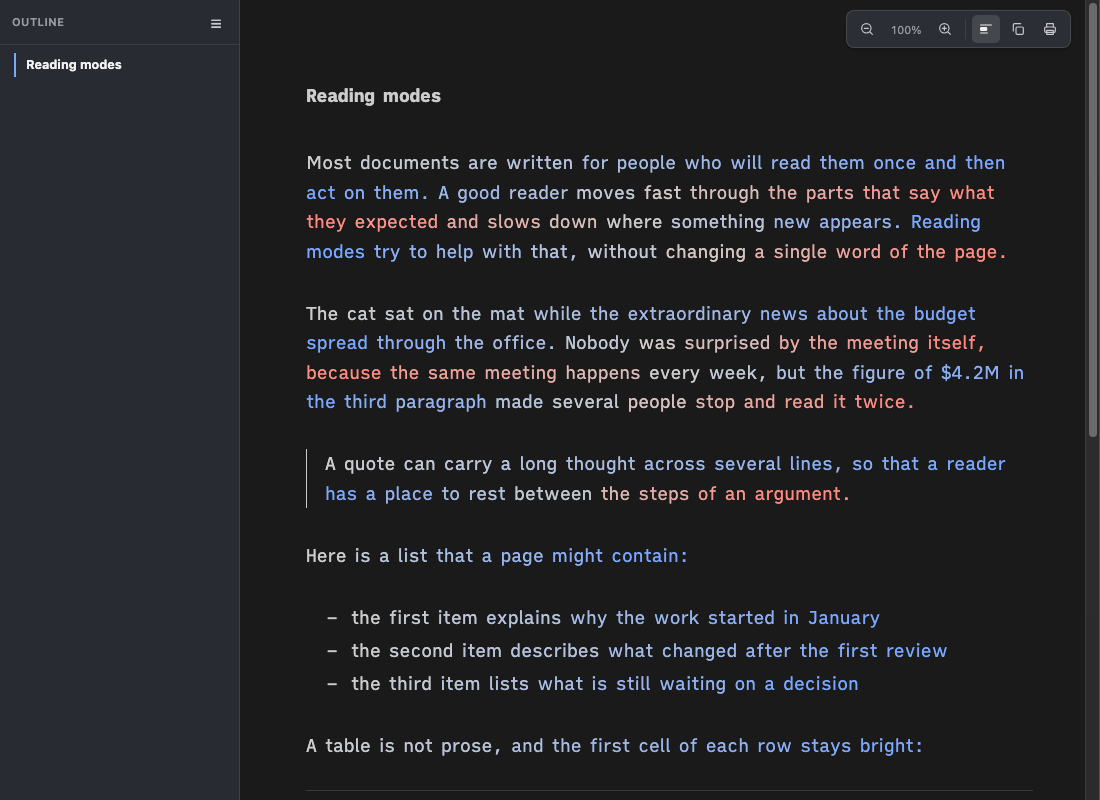
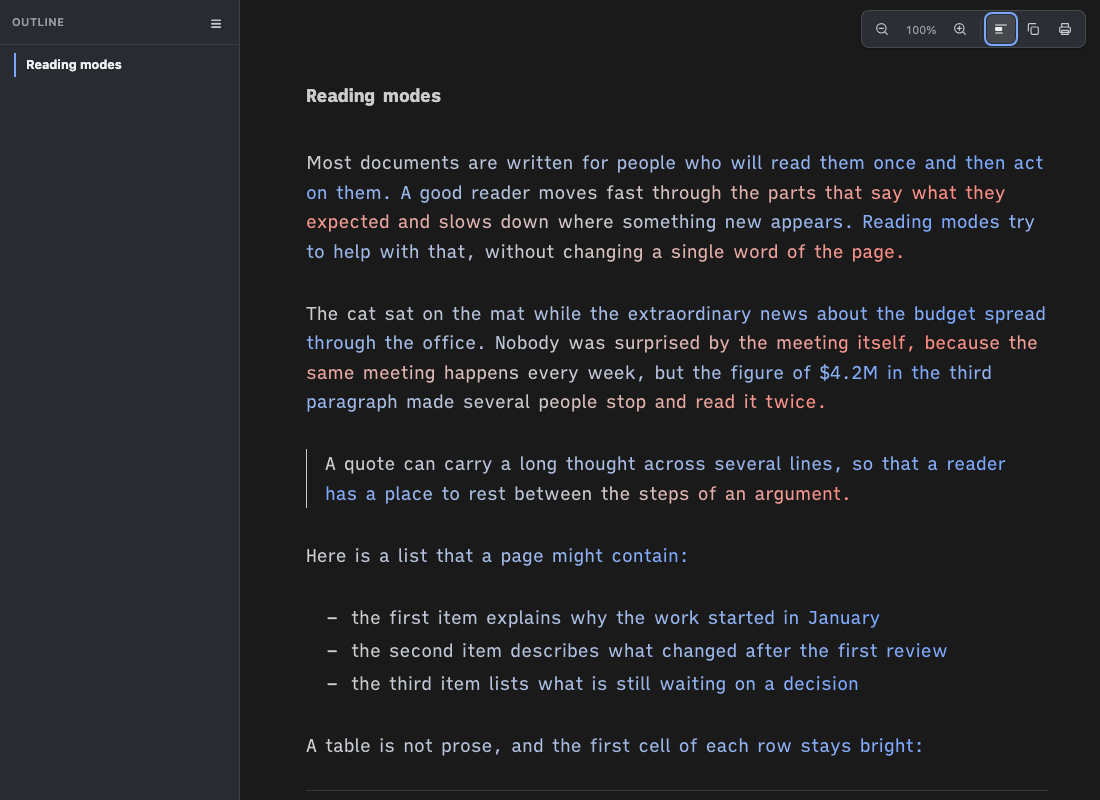
fix(chrome): BeeLine paints a smooth gradient inside each word (#38)
* fix(chrome): BeeLine paints a smooth gradient inside each word

Each word span now carries a linear-gradient from the line colour at its left
edge to the colour at its right edge, clipped to the text, so neighbouring
words join without a step. The solid per-word colour stays as the fallback
where background-clip: text is missing, and forced-colors drops the gradient.
The smoke driver asserts the gradient, the clip, and matching boundary colours.

Claude-Session: https://claude.ai/code/session_0126ksWGDYebMfUDCb3csMdc

* docs(verification): proof of done for the smooth BeeLine gradient

Green run (110 checks), the negative control (flat slices turn read-12 and
read-12b red), and refreshed BeeLine screenshots in light and dark.

Claude-Session: https://claude.ai/code/session_0126ksWGDYebMfUDCb3csMdc

diff --git a/assets/reading-chrome-foot.html b/assets/reading-chrome-foot.html
@@ -395,11 +395,14 @@
   }
 
   // ---- BeeLine: a colour gradient along each rendered line ----
-  // Each word is a span; the layout pass groups the spans of a block into lines by offsetTop and
-  // gives each word a position t (0 at the line's first word, 1 at its last). Line 1 runs ink to
-  // blue, line 2 blue to ink to red, line 3 red to ink to blue, then 2 and 3 repeat, so every line
-  // starts on the colour the one above ended on. The colour is CSS (--bl-a mixes two tokens), so a
-  // theme change recolours for free; only a change of line breaks needs the layout pass again.
+  // Each word is a span; the layout pass groups the spans of a block into lines by offsetTop. Line 1
+  // runs ink to blue, line 2 blue to ink to red, line 3 red to ink to blue, then 2 and 3 repeat, so
+  // every line starts on the colour the one above ended on. Each span paints its own slice of the
+  // line gradient: a linear-gradient (kept in --bl-g, drawn as its background-image by screen-only CSS)
+  // from the colour at its left edge to the colour at its right edge, clipped to the text, so neighbouring words join without a step. The slice colours are
+  // worked out here from the resolved ink, blue and red, so the layout pass runs again on a
+  // resize, a late font or a theme change. A browser without background-clip: text keeps the
+  // solid per-word colour of the sd-bl-* classes (--bl-a mixes two tokens).
   var bl = { words: [], timer: null };
   function enterBeeline() {
     var wordRe = /\S+/g;
@@ -419,27 +422,78 @@
     });
     layoutBeeline();
   }
-  function paintBeeLine(from, to, lineNo, xs) {
-    var lo = Infinity, hi = -Infinity, k;
-    for (k = from; k <= to; k++) { lo = Math.min(lo, xs[k]); hi = Math.max(hi, xs[k]); }
+  // a computed colour as [r, g, b] in 0..255, or null (rgb() and color(srgb ...) are what browsers return)
+  function parseRgb(c) {
+    var m = /^rgba?\(\s*([\d.]+)[, ]+([\d.]+)[, ]+([\d.]+)/.exec(c) || /^color\(srgb\s+([\d.]+)\s+([\d.]+)\s+([\d.]+)/.exec(c);
+    if (!m) return null;
+    var k = c.indexOf("color(") === 0 ? 255 : 1;
+    return [m[1] * k, m[2] * k, m[3] * k];
+  }
+  function mixRgb(a, b, t) {
+    return "rgb(" + [0, 1, 2].map(function (i) { return (a[i] + (b[i] - a[i]) * t).toFixed(1); }).join(", ") + ")";
+  }
+  // the colour stops of line n: line 0 ink to blue, odd lines blue, ink, red, even lines red, ink, blue
+  function beeStops(lineNo, ink, blue, red) {
+    if (lineNo === 0) return [ink, blue];
+    return lineNo % 2 ? [blue, ink, red] : [red, ink, blue];
+  }
+  function beeAt(stops, t) {
+    var segs = stops.length - 1, pos = Math.min(Math.max(t, 0), 1) * segs, i = Math.min(Math.floor(pos), segs - 1);
+    return mixRgb(stops[i], stops[i + 1], pos - i);
+  }
+  // linear-gradient for the slice [t0, t1] of a line; a stop that falls inside the slice is kept
+  function beeSlice(stops, t0, t1) {
+    var segs = stops.length - 1, parts = [beeAt(stops, t0)], i;
+    if (t1 > t0) {
+      for (i = 1; i < segs; i++) {
+        var edge = i / segs;
+        if (edge > t0 && edge < t1) parts.push(beeAt(stops, edge) + " " + (((edge - t0) / (t1 - t0)) * 100).toFixed(2) + "%");
+      }
+    }
+    parts.push(beeAt(stops, t1));
+    return "linear-gradient(to right, " + parts.join(", ") + ")";
+  }
+  function paintBeeLine(from, to, lineNo, lefts, rights, inks, pal) {
+    var lo = Infinity, hi = -Infinity, edgeHi = -Infinity, k;
+    for (k = from; k <= to; k++) { lo = Math.min(lo, lefts[k]); hi = Math.max(hi, lefts[k]); edgeHi = Math.max(edgeHi, rights[k]); }
     for (k = from; k <= to; k++) {
-      var t = hi > lo ? (xs[k] - lo) / (hi - lo) : 0, cls, a;
+      var t = hi > lo ? (lefts[k] - lo) / (hi - lo) : 0, cls, a, wordEl = bl.words[k].el;
       if (lineNo === 0) { cls = "bi"; a = t; }
       else if (t < 0.5) { cls = lineNo % 2 ? "ib" : "ir"; a = t * 2; }
       else { cls = lineNo % 2 ? "ri" : "bi"; a = t * 2 - 1; }
-      bl.words[k].el.className = "sd-bl-w sd-bl-" + cls;
-      bl.words[k].el.style.setProperty("--bl-a", (a * 100).toFixed(1) + "%");
+      wordEl.className = "sd-bl-w sd-bl-" + cls; // the solid colour, kept as the fallback
+      wordEl.style.setProperty("--bl-a", (a * 100).toFixed(1) + "%");
+      if (!pal || !inks[k] || !(edgeHi > lo)) { wordEl.style.removeProperty("--bl-g"); continue; }
+      var stops = beeStops(lineNo, inks[k], pal.blue, pal.red), span = edgeHi - lo;
+      // the slice ends where the next word starts when only a space lies between, so neighbours meet exactly
+      var next = k < to && lefts[k + 1] - rights[k] <= bl.words[k].h * 0.5 ? lefts[k + 1] : rights[k];
+      wordEl.style.setProperty("--bl-g", beeSlice(stops, (lefts[k] - lo) / span, (next - lo) / span));
+      wordEl.className += " sd-bl-g";
     }
   }
   function layoutBeeline() {
-    var words = bl.words, n = words.length, tops = new Array(n), lefts = new Array(n), i;
-    for (i = 0; i < n; i++) { tops[i] = words[i].el.offsetTop; lefts[i] = words[i].el.offsetLeft; } // reads first, writes after
+    var words = bl.words, n = words.length, tops = new Array(n), lefts = new Array(n), rights = new Array(n), inks = new Array(n), i;
+    // reads first, writes after: the palette, then every word's box and the ink it inherits
+    var probe = document.createElement("span"), pal = null, blue, red;
+    probe.style.display = "none";
+    document.body.appendChild(probe);
+    probe.style.color = "var(--sd-bl-blue)"; blue = parseRgb(getComputedStyle(probe).color);
+    probe.style.color = "var(--sd-bl-red)"; red = parseRgb(getComputedStyle(probe).color);
+    document.body.removeChild(probe);
+    if (blue && red) pal = { blue: blue, red: red };
+    var lastParent = null, lastInk = null;
+    for (i = 0; i < n; i++) {
+      var w = words[i].el, parent = w.parentElement;
+      tops[i] = w.offsetTop; lefts[i] = w.offsetLeft; rights[i] = w.offsetLeft + w.offsetWidth; words[i].h = w.offsetHeight;
+      if (parent !== lastParent) { lastParent = parent; lastInk = parseRgb(getComputedStyle(parent).color); }
+      inks[i] = lastInk;
+    }
     var first = 0, lineNo = 0, lineTop = n ? tops[0] : 0;
     for (i = 1; i <= n; i++) {
       var newBlock = i < n && words[i].block !== words[i - 1].block;
       var newLine = i < n && Math.abs(tops[i] - lineTop) > Math.max(3, words[i].el.offsetHeight / 2);
       if (i < n && !newBlock && !newLine) continue;
-      paintBeeLine(first, i - 1, lineNo, lefts);
+      paintBeeLine(first, i - 1, lineNo, lefts, rights, inks, pal);
       first = i;
       lineNo = newBlock ? 0 : lineNo + 1;
       if (i < n) lineTop = tops[i];

diff --git a/tests/reading-modes-driver.js b/tests/reading-modes-driver.js
@@ -17,6 +17,20 @@
     var x = rgb(a), y = rgb(b);
     return x && y ? Math.max(Math.abs(x[0] - y[0]), Math.abs(x[1] - y[1]), Math.abs(x[2] - y[2])) : 999;
   }
+  // the colours of a BeeLine word's gradient, left edge first: [[r,g,b], ...] or null when it has none
+  function gradient(el) {
+    var bg = getComputedStyle(el).backgroundImage;
+    if (bg.indexOf("linear-gradient") !== 0) return null;
+    var out = [], re = /rgba?\(([^)]*)\)|color\(srgb ([^)]*)\)/g, m;
+    while ((m = re.exec(bg))) {
+      var parts = (m[1] || m[2]).split(/[ ,\/]+/).filter(Boolean).map(Number), k = m[1] ? 1 : 255;
+      out.push([parts[0] * k, parts[1] * k, parts[2] * k]);
+    }
+    return out.length >= 2 ? out : null;
+  }
+  function gdist(a, b) { return Math.max(Math.abs(a[0] - b[0]), Math.abs(a[1] - b[1]), Math.abs(a[2] - b[2])); }
+  function gLeft(el) { var g = gradient(el); return g ? g[0] : null; }
+  function gRight(el) { var g = gradient(el); return g ? g[g.length - 1] : null; }
   // text of every prose element plus how many text nodes it holds: equal before and after means restored
   function sig() {
     var out = [], nodes = 0;
@@ -43,7 +57,7 @@
     return {
       surprise: count("[class^='sd-s-'], [class^='sd-s1'], [class^='sd-s2']"),
       bionic: count("b.sd-bi"),
-      beeline: count(".sd-bl-w"),
+      beeline: count(".sd-bl-w, .sd-bl-g, [style*='--bl-']"),
       rsvp: count(".sd-rsvp-overlay")
     };
   }
@@ -128,19 +142,42 @@
         line.words.push(w);
       });
     }
-    var join = 0, startInk = null, endBlue = null;
+    // each word paints its own slice of the line gradient: left and right colours, joined word to word
+    var join = 0, startInk = null, endBlue = null, seam = 0, seamPairs = 0, withGradient = 0, clipped = 0, clear = 0, flat = 0, wide = 0, midInk = false;
+    var allWords = longP ? Array.prototype.slice.call(longP.querySelectorAll(".sd-bl-w")) : [];
+    allWords.forEach(function (w) {
+      var cs = getComputedStyle(w);
+      if (gradient(w)) withGradient++;
+      if (cs.webkitBackgroundClip === "text" || cs.backgroundClip === "text") clipped++;
+      if (cs.webkitTextFillColor === "rgba(0, 0, 0, 0)") clear++;
+    });
     if (lines.length > 2) {
-      var ink = color(longP);
-      startInk = dist(color(lines[0].words[0]), ink);
-      endBlue = color(lines[0].words[lines[0].words.length - 1]);
+      var ink = color(longP), inkRgb = rgb(ink);
+      startInk = gdist(gLeft(lines[0].words[0]), inkRgb);
+      endBlue = gRight(lines[0].words[lines[0].words.length - 1]);
       for (var i = 0; i + 1 < lines.length; i++) {
         var a = lines[i].words[lines[i].words.length - 1], b = lines[i + 1].words[0];
-        join = Math.max(join, dist(color(a), color(b)));
+        join = Math.max(join, gdist(gRight(a), gLeft(b)));
       }
+      lines.forEach(function (line) {
+        for (var j = 0; j + 1 < line.words.length; j++) {
+          var gap = line.words[j + 1].offsetLeft - (line.words[j].offsetLeft + line.words[j].offsetWidth);
+          if (gap > 10) continue; // a link or bold word sits between: it is not a BeeLine word, so no seam to compare
+          seam = Math.max(seam, gdist(gRight(line.words[j]), gLeft(line.words[j + 1])));
+          seamPairs++;
+        }
+        line.words.forEach(function (w) {
+          if (w.offsetWidth < 40) return;
+          wide++;
+          if (gdist(gLeft(w), gRight(w)) < 0.5) flat++;
+        });
+      });
+      var mid = lines[1].words[Math.floor(lines[1].words.length / 2)];
+      midInk = gdist(gLeft(mid), inkRgb) < 60;
     }
     R.beeline = { classes: modeClasses(), words: count(".sd-bl-w"), lines: lines.length, startInk: startInk, join: join,
-      endDiffersFromInk: endBlue ? dist(endBlue, color(longP)) > 40 : false,
-      midInk: lines.length > 1 ? dist(color(lines[1].words[Math.floor(lines[1].words.length / 2)]), color(longP)) < 60 : false,
+      endDiffersFromInk: endBlue ? gdist(endBlue, rgb(color(longP))) > 40 : false, midInk: midInk,
+      gradient: { words: allWords.length, withGradient: withGradient, clipped: clipped, clear: clear, seam: seam, seamPairs: seamPairs, wide: wide, flat: flat },
       inSkipped: count("pre .sd-bl-w, code .sd-bl-w, a .sd-bl-w, h1 .sd-bl-w"), left: leftovers() };
 
     // rsvp: opens over the page, Space pauses, arrows step, Esc closes and exits the mode

diff --git a/assets/reading-chrome-head.html b/assets/reading-chrome-head.html
@@ -335,6 +335,15 @@ b.sd-bi { font-weight: inherit; }
   html.sd-beeline .sd-bl-ib { --bl-x: currentcolor; --bl-y: var(--sd-bl-blue); }
   html.sd-beeline .sd-bl-ri { --bl-x: var(--sd-bl-red); --bl-y: currentcolor; }
   html.sd-beeline .sd-bl-ir { --bl-x: currentcolor; --bl-y: var(--sd-bl-red); }
+  /* The word paints its own slice of the line gradient (the JS keeps it in --bl-g, so print never
+     sees it): clipped to the glyphs, with the text fill clear, so color stays the ink. */
+  @supports ((-webkit-background-clip: text) or (background-clip: text)) {
+    html.sd-beeline .sd-bl-g { background-image: var(--bl-g); -webkit-background-clip: text; background-clip: text; -webkit-text-fill-color: transparent; }
+    html.sd-beeline .sd-bl-g::selection { -webkit-text-fill-color: currentcolor; }
+  }
+  @media (forced-colors: active) {
+    html.sd-beeline .sd-bl-g { background-image: none; -webkit-text-fill-color: currentcolor; }
+  }
 
   /* RSVP: a full-screen overlay; the three-column word keeps its middle letter on the centre. */
   html.sd-rsvp body { overflow: hidden; }

diff --git a/docs/verification/beeline-smooth.md b/docs/verification/beeline-smooth.md
@@ -1,0 +1,97 @@
+# Proof of Done, beeline-smooth
+
+BeeLine used to set one solid colour per word, taken at the word's x position, so a line stepped from word to word. Each word span now carries its own slice of the line gradient: `--bl-g` holds a `linear-gradient(to right, ...)` from the line colour at the word's left edge to the colour at its right edge, and screen-only CSS draws it as `background-image` clipped to the text (`background-clip: text`, `-webkit-text-fill-color: transparent`). A word ends on the colour where the next word starts (only a space lies between), so neighbours join without a step. A stop that falls inside a word (the ink midpoint of lines 2 and up) is kept at its percentage. Still one span per word, no per-character spans.
+
+| Case | Behaviour | Where it lives |
+|---|---|---|
+| Browser supports `background-clip: text` | Gradient slice per word; the class `sd-bl-g` is added only when the slice was computed | foot (colours, layout pass), head (`@supports` block) |
+| No `background-clip: text` | Today's solid per-word colour (`sd-bl-*` classes and `--bl-a`) | head |
+| `forced-colors: active` | Gradient off, normal text colour | head |
+| Print | Unchanged: every BeeLine rule and the `--bl-g` drawing sit inside `@media screen` | head |
+| Selected text | `::selection` gives the word a solid fill, so it stays readable over the highlight | head |
+| Resize, late font, theme change | Layout pass reruns (debounced 150 ms) and recomputes the slices from the resolved ink, blue and red | foot |
+| Off or another mode | `restoreText()` puts the original text nodes back; the spans and their style go with them | foot |
+
+Links, bold, code and headings are not BeeLine words (as before), so they keep their own colour. Italic words are plain spans inside `em`; a scratch page with `*italic phrase*` showed all five `EM` words with the gradient and a clear text fill.
+
+## Green run
+
+| Command | Exit | Verdict |
+|---|---|---|
+| `bash tests/smoke.sh` | 0 | PASS, 110 checks |
+
+```
+[read-12] BeeLine colours each line: ink to blue, then blue to ink to red, each line starting on the colour the last one ended on
+  ok: word spans, first word on the ink, line ends meet the next line starts, middle of a line is ink
+[read-12b] BeeLine is smooth: every word paints its own linear-gradient slice, clipped to the text, and neighbours meet at the same colour
+  ok: linear-gradient background on every word, background-clip text, clear text fill, no flat word, seams under 3 channel units
+[read-14] switching through every mode never stacks markup; Off restores the original text exactly; S brings the last mode back
+  ok: one class at a time, zero leftover spans, text and node count identical to the load state
+smoke: all 110 passed
+```
+
+What the driver measured on the English fixture, last paragraph (headless Helium, 1000 by 500, `ia` theme):
+
+| Measure | Value |
+|---|---|
+| Words with a computed `linear-gradient` background | 69 of 69 |
+| Words with `background-clip: text` and a clear text fill | 69 of 69 |
+| Neighbouring word pairs on a line compared | 61 |
+| Largest channel difference, word N right colour vs word N+1 left colour | 0 |
+| Words 40px or wider whose left and right colours are equal ("flat") | 0 of 37 |
+| Line end vs next line start, largest channel difference | 0 |
+| Pairs separated by a link or bold word (not compared) | skipped, gap over 10px |
+
+The Off check (`read-14`) now also counts any `sd-bl-g` class or `--bl-` style left behind; both are 0, and the page text and text-node count equal the load state.
+
+## Visual check
+
+Headless Helium, 1100 by 800, `ia` theme, English fixture. Dark is applied by promoting the `prefers-color-scheme: dark` blocks to `all`.
+
+| | Before | After |
+|---|---|---|
+| Light | ![](beeline-smooth/before-light.png) | ![](beeline-smooth/after-light.png) |
+| Dark | ![](beeline-smooth/before-dark.png) | ![](beeline-smooth/after-dark.png) |
+
+Three times zoom on the first lines, light (colour changes inside words, not only between them):
+
+![](beeline-smooth/after-zoom.png)
+
+A selected paragraph stays readable over the highlight:
+
+![](beeline-smooth/after-selection.png)
+
+`reading-modes/beeline-light.png` and `reading-modes/beeline-dark.png` are refreshed to the new look.
+
+## Negative control
+
+Committed first (`fix(chrome): BeeLine paints a smooth gradient inside each word`), then in `assets/reading-chrome-foot.html` the right stop of each slice was set to the left stop (every word a flat colour again, the old stepped look). Restored with `git checkout --` and the suite re-run green.
+
+| Break | Checks that went red | Result line |
+|---|---|---|
+| Right stop of each slice set to the left stop | `read-12`, `read-12b` | `smoke: 108 passed, 2 FAILED` |
+
+```
+  FAIL: beeline gradient or continuity wrong
+  FAIL: beeline words are not smooth gradient slices, or neighbouring words do not meet
+smoke: 108 passed, 2 FAILED
+```
+
+After `git checkout -- assets/reading-chrome-foot.html`: `smoke: all 110 passed`.
+
+## Reproduce
+
+```bash
+bash tests/smoke.sh      # the BeeLine checks need a Chromium-family browser; SPACEDOWN_TEST_BROWSER names one
+./bin/spacedown tests/fixture/reading-en.md --out /tmp/en.html --no-open && open /tmp/en.html   # Read menu, BeeLine
+```
+
+## Known limits
+
+- The slice ends where the next word starts, so a word's gradient stretches over its width plus one space; the shift is under one space width.
+- A link, bold or code word between two BeeLine words is not a span, so the colour jumps across it as before.
+- A browser that does not resolve `var()` colours to `rgb()` or `color(srgb ...)` keeps the solid per-word colour for that word.
+
+## Rollback
+
+Revert the commits of this branch. Nothing is stored; the solid per-word colour code is still in place as the fallback.

diff --git a/docs/verification/reading-modes.md b/docs/verification/reading-modes.md
@@ -7,7 +7,7 @@ The single Skim toggle becomes one **Read** menu in the toolbar: Off, Skim, Skim
 | Skim | Unchanged: fades non-key words by colour | `assets/reading-chrome-head.html` section 7, key-word pass in the foot |
 | Skim (surprise) | Port of the skimgram scoring core: five levels per word, `sd-s-2` to `sd-s2`, by colour | `assets/skim-surprise.html` (engine), foot (walk and paint), head section 8 (colours) |
 | Bionic | Bolds the first 45% of each word (1 to 3 letters: 1 letter) in `b.sd-bi` | foot |
-| BeeLine | One span per word, colour by x position in its rendered line, lines alternate so each starts on the colour the last ended on | foot (layout), head (colour) |
+| BeeLine | One span per word, colour by x position in its rendered line, lines alternate so each starts on the colour the last ended on; each word paints a gradient slice since `beeline-smooth.md` | foot (layout), head (colour) |
 | RSVP | Overlay, one word at a time, recognition letter at 35% in red on a centre marker | foot (logic), head (overlay) |
 
 ## Green run
